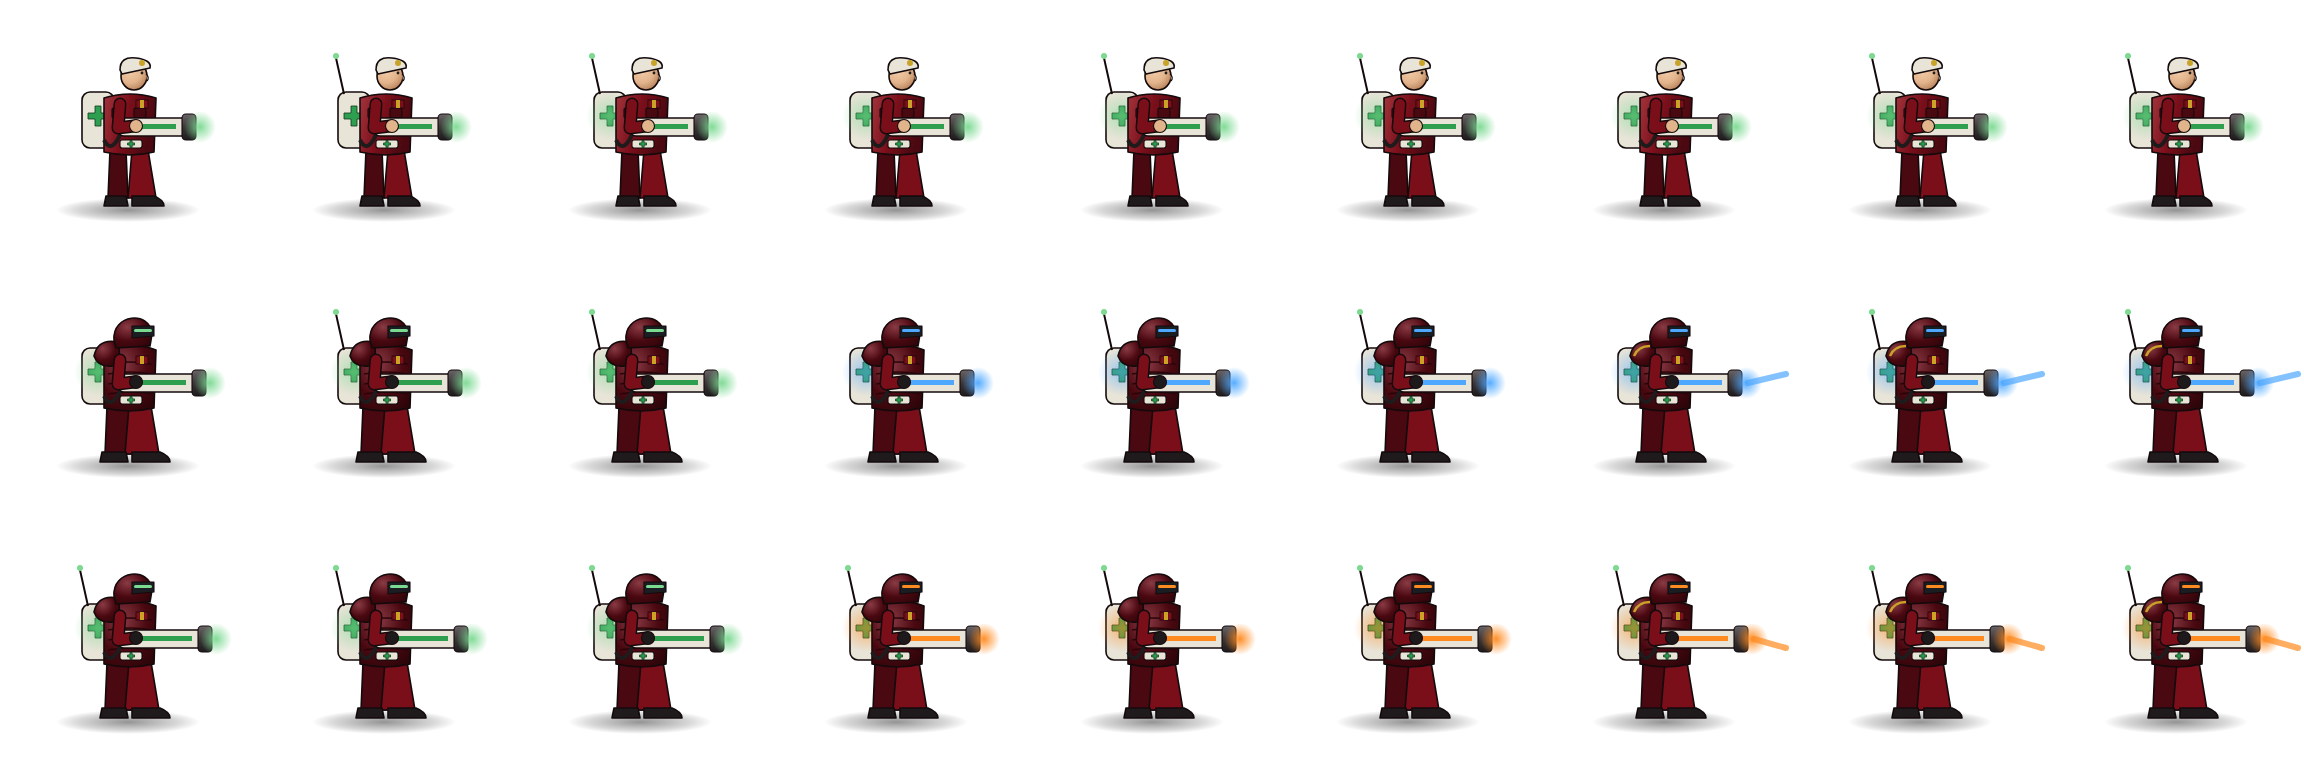
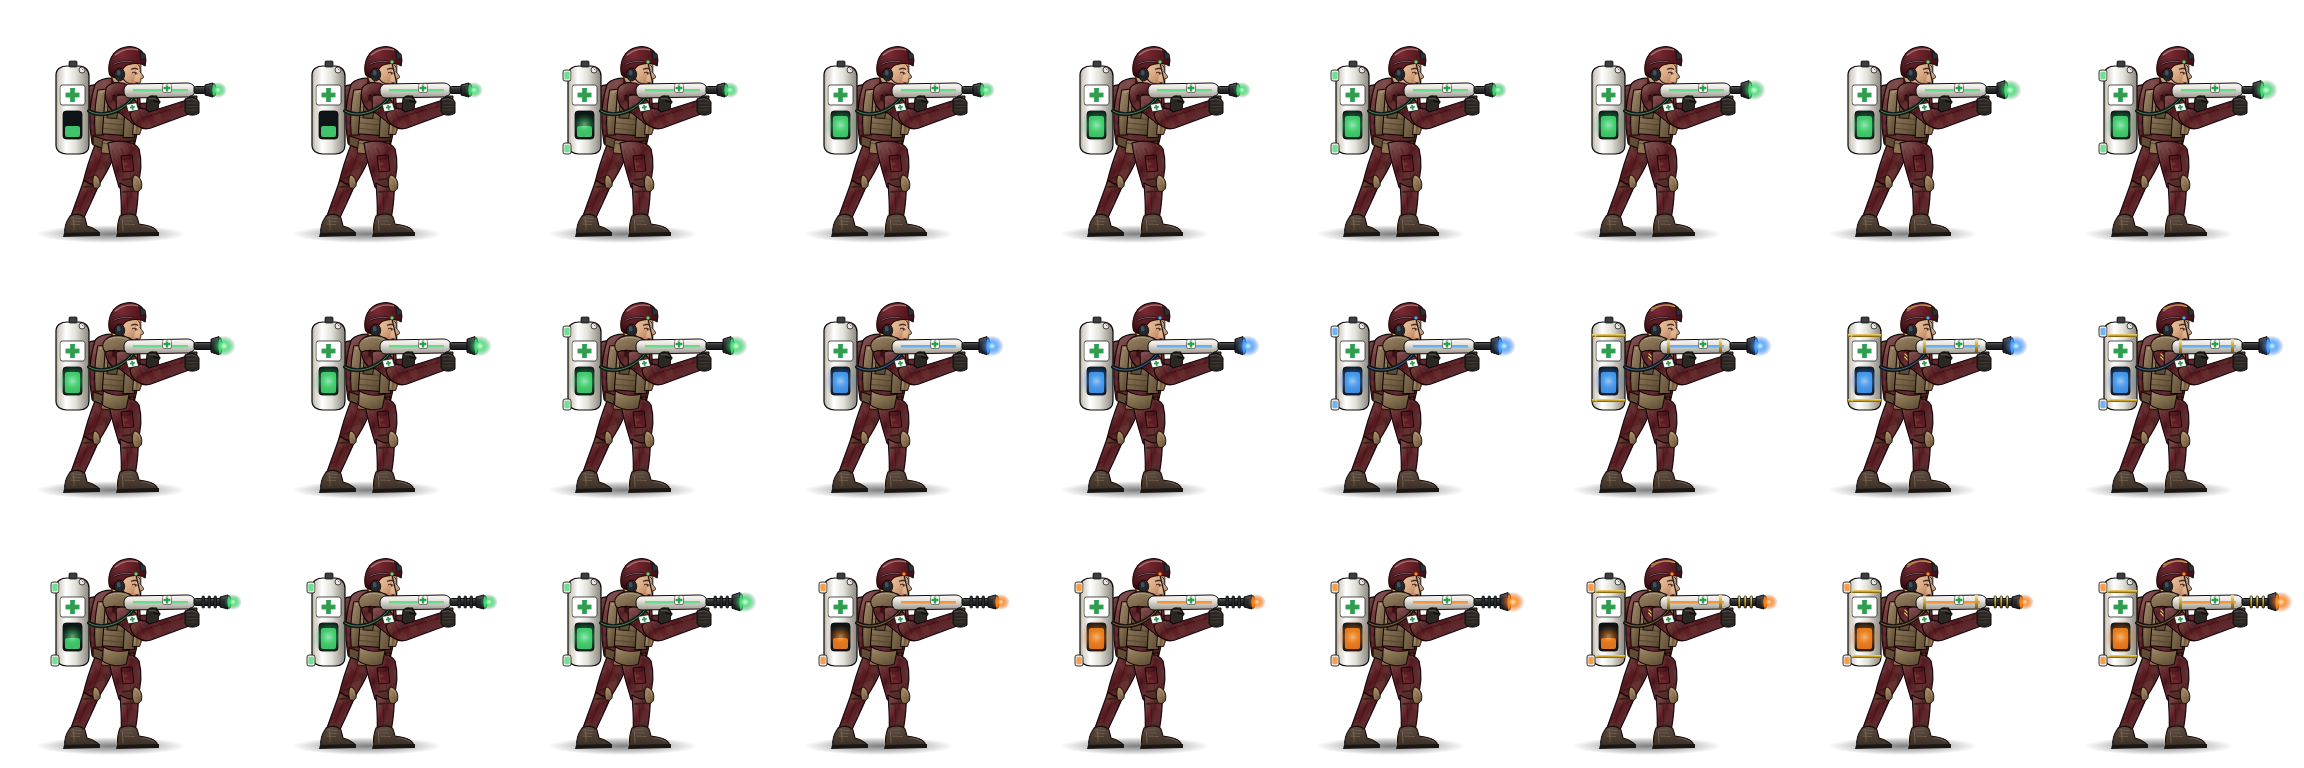
Feldarzt im neuen Detailstil, Heilstrahl überarbeitet
Claude-Session: https://claude.ai/code/session_01H2UiKssafjRzK7unKsx8yK

diff --git a/spiel.js b/spiel.js
@@ -1,7 +1,7 @@
 // Maiskolbistan Militär-Defense – Testkarte 1 (Westkolbistan)
 // Reines JavaScript, kein Bau-Schritt. Grafiken aus dem Maiskolbistan-Info-Repo (seiten/td-ranger-sprites).
 'use strict';
-const VERSION = '2026-11-20-13';   // bei jedem Update hochzählen (auch in index.html)
+const VERSION = '2026-11-20-14';   // bei jedem Update hochzählen (auch in index.html)
 
 (() => {
   const W = 1140, H = 810, MITTE = 570;
@@ -160,7 +160,7 @@ const VERSION = '2026-11-20-13';   // bei jedem Update hochzählen (auch in inde
       info: 'Flammenwerfer: kurze Reichweite, trifft alle Gegner im Flammenkegel und setzt sie in Brand (Feuer wirkt voll gegen Panzerung). Oberer Pfad nach TDX, unterer Pfad „Brandsatz“ legt brennende Lachen.'
     },
     arzt: {
-      name: 'Feldarzt', kosten: 250, schraeg: 'bilder/arzt_schraeg.png', json: 'arzt', tech: 'arzt',
+      name: 'Feldarzt', kosten: 250, schraeg: 'bilder/arzt_schraeg.png', json: 'arzt', tech: 'arzt', groesse: 84,
       pfade: ['Schutzladung', 'Kraftladung'],
       basis: { dmg: 0, reload: 1, burst: 1, range: 12, erholung: 50, arzt: true },
       A: [
@@ -1300,9 +1300,17 @@ const VERSION = '2026-11-20-13';   // bei jedem Update hochzählen (auch in inde
       }
       if (t.typ === 'arzt' && t.pflege && S.tuerme.includes(t.pflege)) {
         const m = muendung(t), z = t.pflege, farbe = z.uberBis > S.zeit ? '79,168,255' : z.kritzBis > S.zeit ? '255,138,31' : '124,217,146';
-        ctx.save(); ctx.strokeStyle = `rgba(${farbe},0.75)`; ctx.lineWidth = 5 + Math.sin(S.zeit * 12) * 1.5; ctx.lineCap = 'round';
-        ctx.beginPath(); ctx.moveTo(m.x, m.y); ctx.quadraticCurveTo((m.x + z.x) / 2, (m.y + z.y) / 2 - 18, z.x, z.y - 10); ctx.stroke();
-        ctx.strokeStyle = 'rgba(255,255,255,0.6)'; ctx.lineWidth = 1.5; ctx.stroke(); ctx.restore();
+        // Heilstrahl im Detailstil: weicher Schein, pulsierender Kern, Lichtpunkte wandern zum Ziel, Leuchten am Ziel
+        const cx = (m.x + z.x) / 2, cy = (m.y + z.y) / 2 - 18, zx = z.x, zy = z.y - 10, q = (t2) => [(1 - t2) * (1 - t2) * m.x + 2 * (1 - t2) * t2 * cx + t2 * t2 * zx, (1 - t2) * (1 - t2) * m.y + 2 * (1 - t2) * t2 * cy + t2 * t2 * zy];
+        ctx.save(); ctx.lineCap = 'round';
+        ctx.beginPath(); ctx.moveTo(m.x, m.y); ctx.quadraticCurveTo(cx, cy, zx, zy);
+        ctx.shadowColor = `rgb(${farbe})`; ctx.shadowBlur = 14; ctx.strokeStyle = `rgba(${farbe},0.45)`; ctx.lineWidth = 9 + Math.sin(S.zeit * 12) * 2; ctx.stroke();
+        ctx.shadowBlur = 0; ctx.strokeStyle = `rgba(${farbe},0.9)`; ctx.lineWidth = 3.2; ctx.stroke();
+        ctx.strokeStyle = 'rgba(255,255,255,0.85)'; ctx.lineWidth = 1.2; ctx.stroke();
+        for (let i = 0; i < 6; i++) { const t2 = (i / 6 + S.zeit * 0.9) % 1, [px, py] = q(t2); ctx.fillStyle = `rgba(255,255,255,${0.9 - t2 * 0.4})`; ctx.beginPath(); ctx.arc(px, py, 2.2 + Math.sin(t2 * Math.PI) * 1.4, 0, Math.PI * 2); ctx.fill(); }
+        const gl = ctx.createRadialGradient(zx, zy, 0, zx, zy, 22); gl.addColorStop(0, `rgba(${farbe},0.55)`); gl.addColorStop(1, `rgba(${farbe},0)`);
+        ctx.fillStyle = gl; ctx.beginPath(); ctx.arc(zx, zy, 22, 0, Math.PI * 2); ctx.fill();
+        ctx.restore();
       }
       if (t.uberBis > S.zeit) { ctx.strokeStyle = 'rgba(79,168,255,0.85)'; ctx.lineWidth = 3; ctx.beginPath(); ctx.arc(t.x, t.y, 38, 0, Math.PI * 2); ctx.stroke(); }
       if (t.kritzBis > S.zeit) { ctx.strokeStyle = 'rgba(255,138,31,0.85)'; ctx.lineWidth = 3; ctx.setLineDash([6, 4]); ctx.beginPath(); ctx.arc(t.x, t.y, 40, 0, Math.PI * 2); ctx.stroke(); ctx.setLineDash([]); }

diff --git a/index.html b/index.html
@@ -128,6 +128,6 @@ button{touch-action:manipulation}#feld{touch-action:none}
   <div id="toast" role="status" aria-live="polite" style="position:absolute;left:570px;top:96px;transform:translateX(-50%);display:none;z-index:5;background:#2B0509;border:2px solid #C9A227;border-radius:12px;padding:12px 20px;font-weight:800;font-size:17px;color:#E8C766;white-space:nowrap"></div>
   <div id="overlay"><div class="karte" id="overlayInhalt"></div></div>
 </div>
-<script src="spiel.js?v=2026-11-20-13"></script>
+<script src="spiel.js?v=2026-11-20-14"></script>
 </body>
 </html>

diff --git a/README.md b/README.md
@@ -135,7 +135,7 @@ Anzeige im Spiel: Rauch-, Lawinen- und Sandsturmwolken, eingefrorene Türme (bla
 
 ## Grafikstil (Umstellung läuft)
 
-Der **Ranger** ist im neuen, detaillierteren Stil gezeichnet (nach Fotovorlagen): vorgelehnter Anschlag, Plattenträger, Helm mit Headset, Gewehr in M4-Bauart, Stofftextur und Tarnmuster, Licht von oben links. Stufen: Präzision 1 Laservisier (Strahl) · 2 Elite (Zielfernrohr, goldene Winkel) · 3 Nachtsichtgerät · 4 schweres Gewehr (langer Lauf, Zweibein) · 5 leichtes MG mit Patronenkasten. Sturm 1 Goldspitzen-Munition · 2 Waffenlicht · 3 Schulter-, Hals- und Leistenschutz · 4 Granatwerfer und Handgranaten · 5 Sturmhaube mit Visier. Der **Scharfschütze** ist ebenfalls umgestellt (kniender Anschlag, Ellbogen auf dem Knie, Gewehr in M110-Bauart): Phantom 1 Buschhut + Tarnschminke · 2 Wärmebild-Vorsatz · 3 Schalldämpfer · 4 Ghillie-Kapuze und Tarnstreifen · 5 voller Ghillie mit Maisblättern; Schwerkaliber 1 längerer Lauf · 2 .50-Gewehr mit Mündungsbremse · 3 Helm und Panzerung · 4 Leuchtpistole · 5 Laser-Gewehr. Der **Juggernaut** ebenfalls (schwere Plattenrüstung mit Visierhelm, Minigun in M134-Bauart in Hüfthöhe, Munitionsrucksack mit Gurt): Feuerwalze 1 goldene Kraft-Handschuhe · 2 goldene Gelenkdämpfer · 3 lange Läufe · 4 Power-Minigun · 5 HE (glühende Läufe, rotes Visier, Hörner); Doppelfeuer 1 goldener Tragegriff · 2 AP-Gurt (gold) · 3 zweite Minigun am Schulterarm · 4 Cyan-Energierucksack · 5 Volle Leistung (Goldkanten). Der **Railgunner** ebenfalls (Körper wie der Ranger, Schienenkanone mit Spulenringen und leuchtendem Kanal, Batteriepack; ab Geschützstellung eine Stellung hinter einer dreilagigen Sandsackmauer mit Dreibein, Schutzschild, Kondensatorbank und Generator): Schienen-Soldat 1 Kühlzellen · 2 Zielfernrohr · 3 längere Schienen · 4 Kampfanzug · 5 Gold-Spulen; Geschützstellung 1 Proto-Munition (violett) · 2 Blitzbögen · 3 Stellung · 4 Doppelrohr · 5 XRT-9000 (goldene Kondensatorbank). Das **Logistik-Depot** ebenfalls (echte Schrägansicht mit Licht von links oben und Schlagschatten: Kiesplatz mit HESCO-Wall, Fahne, Holzkisten auf Paletten, Munitionskisten, Kornsäcke): Versorgung 1 mehr Kisten und Kanister · 2 Wellblech-Lagerhalle mit Rolltor und Flutlicht · 3 Lkw mit Plane · 4 Kornsilo mit Förderrohr · 5 Staatsreserve (Tresorbau, goldenes Silo, Goldbarren); Sanität 1 Sanitätszelt · 2 Feldlazarett mit Trage · 3 Krankenwagen · 4 Rettungshubschrauber auf Landeplatz · 5 Feldkrankenhaus aus Containern (grünes Kreuz). Der **Flammenwerfer** ebenfalls (Körper wie der Ranger, Flammenrohr nach Bauart M2 mit Zündflamme, Schlauch, Rückentanks mit Druckgaskugel): Hitze 1 blaue Zündflamme · 2 größerer Werfer · 3 Napalm (orange Tanks mit Warnstreifen) · 4 M3 (drei Tanks, Schutzausrüstung) · 5 Exo-Flammenanzug (Gold, Tragegestell); Brandsatz 1 Zündflaschen am Gürtel · 2 Kanister und tropfende Düse · 3 Phosphor (weiße Tanks) · 4 Feuerwand (Breitdüse) · 5 Inferno-Werfer (Doppelrohr, Gold). Der **Raketenwerfer** ebenfalls (Körper wie der Ranger, Rohr auf der Schulter): Panzerjäger 1 roter HE-Sprengkopf · 2 Zielfernrohr · 3 SMAW+ (dickeres Rohr, Einschießgewehr) · 4 großer Tandem-Sprengkopf · 5 Javelin (Kommandoeinheit, Gold); Raketenhagel 1 Tasche · 2 Rucksack mit Reserveraketen · 3 M2 Carl (Stahlrohr mit Kühlrippen und Trichter) · 4 großer Splitterradius (drei Reserveraketen, Schutzausrüstung) · 5 Mehrfachwerfer (Kasten mit Rohren). Die **Fahrzeugfabrik** ebenfalls: jedes Fahrzeug ist ein kleines 3D-Modell in Metern nach Referenzfotos (HMMWV M1151, MaxxPro-MRAP, Minenräumpanzer Keiler, Spähwagen Fennek, Schützenpanzer Puma, Leopard 2A4 und 2A7), daraus entstehen Draufsicht (Rumpf und drehbarer Turm) und Schrägbild mit Licht von links oben und weinroter Tarnlackierung; Fabrikhalle mit Wellblechdach, Oberlichtern, offenem Tor und Vorplatz. Die **Artillerie** ebenfalls (3D-Modell wie die Fahrzeuge: gezogene Haubitze mit angehobenem Rohr in einer Sandsackstellung): Schnellfeuer 1 Kanoniere · 2 M119+ (längeres Rohr) · 3 Munitionsgestell · 4 dickeres Rohr · 5 Dreifachrohr; Schwere Geschütze 1 HE-Granaten (rote Bänder) · 2 Munitionskisten · 3 M198 mit Spreizlafette und Ausgleichern · 4 langes Rohr · 5 Himmelsfalke (goldenes Rohr, Feuerleitradar). **Effekte** ebenfalls im Detailstil (`bilder/effekte_spritesheet@2x.png`, doppelte Auflösung, Atlas-Koordinaten unverändert in 1×): Kugeln mit Luftschliere, Leuchtspur, Granaten, Mündungsfeuer mit Seitenflammen, Treffer-Funken mit Staub, Explosion in 8 Bildern (Blitz, Feuerball, Rauchpilz, Splitter, Glut), Brandfläche mit Flammenzungen, Leuchtkugel am Fallschirm, Betäubt-Sterne. Im Code gezeichnet: Flammenkegel aus vielen Flammenzungen mit Rauch und Funken, Rakete mit Leitwerk, Treibsatz und Rauchfahne, Feuerring mit Glut. Zeichengröße auf der Karte: Soldaten im Detailstil 84 px, Juggernaut 105 px, Railgun-Stellung 115 px (passend zu den Gegnern). Die übrigen Türme folgen nacheinander.
+Der **Ranger** ist im neuen, detaillierteren Stil gezeichnet (nach Fotovorlagen): vorgelehnter Anschlag, Plattenträger, Helm mit Headset, Gewehr in M4-Bauart, Stofftextur und Tarnmuster, Licht von oben links. Stufen: Präzision 1 Laservisier (Strahl) · 2 Elite (Zielfernrohr, goldene Winkel) · 3 Nachtsichtgerät · 4 schweres Gewehr (langer Lauf, Zweibein) · 5 leichtes MG mit Patronenkasten. Sturm 1 Goldspitzen-Munition · 2 Waffenlicht · 3 Schulter-, Hals- und Leistenschutz · 4 Granatwerfer und Handgranaten · 5 Sturmhaube mit Visier. Der **Scharfschütze** ist ebenfalls umgestellt (kniender Anschlag, Ellbogen auf dem Knie, Gewehr in M110-Bauart): Phantom 1 Buschhut + Tarnschminke · 2 Wärmebild-Vorsatz · 3 Schalldämpfer · 4 Ghillie-Kapuze und Tarnstreifen · 5 voller Ghillie mit Maisblättern; Schwerkaliber 1 längerer Lauf · 2 .50-Gewehr mit Mündungsbremse · 3 Helm und Panzerung · 4 Leuchtpistole · 5 Laser-Gewehr. Der **Juggernaut** ebenfalls (schwere Plattenrüstung mit Visierhelm, Minigun in M134-Bauart in Hüfthöhe, Munitionsrucksack mit Gurt): Feuerwalze 1 goldene Kraft-Handschuhe · 2 goldene Gelenkdämpfer · 3 lange Läufe · 4 Power-Minigun · 5 HE (glühende Läufe, rotes Visier, Hörner); Doppelfeuer 1 goldener Tragegriff · 2 AP-Gurt (gold) · 3 zweite Minigun am Schulterarm · 4 Cyan-Energierucksack · 5 Volle Leistung (Goldkanten). Der **Railgunner** ebenfalls (Körper wie der Ranger, Schienenkanone mit Spulenringen und leuchtendem Kanal, Batteriepack; ab Geschützstellung eine Stellung hinter einer dreilagigen Sandsackmauer mit Dreibein, Schutzschild, Kondensatorbank und Generator): Schienen-Soldat 1 Kühlzellen · 2 Zielfernrohr · 3 längere Schienen · 4 Kampfanzug · 5 Gold-Spulen; Geschützstellung 1 Proto-Munition (violett) · 2 Blitzbögen · 3 Stellung · 4 Doppelrohr · 5 XRT-9000 (goldene Kondensatorbank). Das **Logistik-Depot** ebenfalls (echte Schrägansicht mit Licht von links oben und Schlagschatten: Kiesplatz mit HESCO-Wall, Fahne, Holzkisten auf Paletten, Munitionskisten, Kornsäcke): Versorgung 1 mehr Kisten und Kanister · 2 Wellblech-Lagerhalle mit Rolltor und Flutlicht · 3 Lkw mit Plane · 4 Kornsilo mit Förderrohr · 5 Staatsreserve (Tresorbau, goldenes Silo, Goldbarren); Sanität 1 Sanitätszelt · 2 Feldlazarett mit Trage · 3 Krankenwagen · 4 Rettungshubschrauber auf Landeplatz · 5 Feldkrankenhaus aus Containern (grünes Kreuz). Der **Flammenwerfer** ebenfalls (Körper wie der Ranger, Flammenrohr nach Bauart M2 mit Zündflamme, Schlauch, Rückentanks mit Druckgaskugel): Hitze 1 blaue Zündflamme · 2 größerer Werfer · 3 Napalm (orange Tanks mit Warnstreifen) · 4 M3 (drei Tanks, Schutzausrüstung) · 5 Exo-Flammenanzug (Gold, Tragegestell); Brandsatz 1 Zündflaschen am Gürtel · 2 Kanister und tropfende Düse · 3 Phosphor (weiße Tanks) · 4 Feuerwand (Breitdüse) · 5 Inferno-Werfer (Doppelrohr, Gold). Der **Raketenwerfer** ebenfalls (Körper wie der Ranger, Rohr auf der Schulter): Panzerjäger 1 roter HE-Sprengkopf · 2 Zielfernrohr · 3 SMAW+ (dickeres Rohr, Einschießgewehr) · 4 großer Tandem-Sprengkopf · 5 Javelin (Kommandoeinheit, Gold); Raketenhagel 1 Tasche · 2 Rucksack mit Reserveraketen · 3 M2 Carl (Stahlrohr mit Kühlrippen und Trichter) · 4 großer Splitterradius (drei Reserveraketen, Schutzausrüstung) · 5 Mehrfachwerfer (Kasten mit Rohren). Die **Fahrzeugfabrik** ebenfalls: jedes Fahrzeug ist ein kleines 3D-Modell in Metern nach Referenzfotos (HMMWV M1151, MaxxPro-MRAP, Minenräumpanzer Keiler, Spähwagen Fennek, Schützenpanzer Puma, Leopard 2A4 und 2A7), daraus entstehen Draufsicht (Rumpf und drehbarer Turm) und Schrägbild mit Licht von links oben und weinroter Tarnlackierung; Fabrikhalle mit Wellblechdach, Oberlichtern, offenem Tor und Vorplatz. Die **Artillerie** ebenfalls (3D-Modell wie die Fahrzeuge: gezogene Haubitze mit angehobenem Rohr in einer Sandsackstellung): Schnellfeuer 1 Kanoniere · 2 M119+ (längeres Rohr) · 3 Munitionsgestell · 4 dickeres Rohr · 5 Dreifachrohr; Schwere Geschütze 1 HE-Granaten (rote Bänder) · 2 Munitionskisten · 3 M198 mit Spreizlafette und Ausgleichern · 4 langes Rohr · 5 Himmelsfalke (goldenes Rohr, Feuerleitradar). Der **Feldarzt** ebenfalls (Körper wie der Ranger, weißer Heilstrahler mit grünem Kreuz und leuchtendem Emitter, Sanitätstank mit Sichtfenster, Armbinde und Helmkreuz – nur grüne Kreuze): Schutzladung 1 Heilzellen · 2 größerer Emitter · 3 Medigun II · 4 Schutzladung (blau) · 5 volle Schutzladung (blau, Gold); Kraftladung 1 Antenne · 2 Ausdauerzellen · 3 Weitstrahl mit Fokusringen · 4 Kraftladung (orange) · 5 volle Kraftladung (orange, Gold). Heilstrahl mit Schein, wandernden Lichtpunkten und Leuchten am Ziel. **Effekte** ebenfalls im Detailstil (`bilder/effekte_spritesheet@2x.png`, doppelte Auflösung, Atlas-Koordinaten unverändert in 1×): Kugeln mit Luftschliere, Leuchtspur, Granaten, Mündungsfeuer mit Seitenflammen, Treffer-Funken mit Staub, Explosion in 8 Bildern (Blitz, Feuerball, Rauchpilz, Splitter, Glut), Brandfläche mit Flammenzungen, Leuchtkugel am Fallschirm, Betäubt-Sterne. Im Code gezeichnet: Flammenkegel aus vielen Flammenzungen mit Rauch und Funken, Rakete mit Leitwerk, Treibsatz und Rauchfahne, Feuerring mit Glut. Zeichengröße auf der Karte: Soldaten im Detailstil 84 px, Juggernaut 105 px, Railgun-Stellung 115 px (passend zu den Gegnern). Die übrigen Türme folgen nacheinander.
 
 ## Turm-Paket 1 (nach TDX-Wiki)
 
